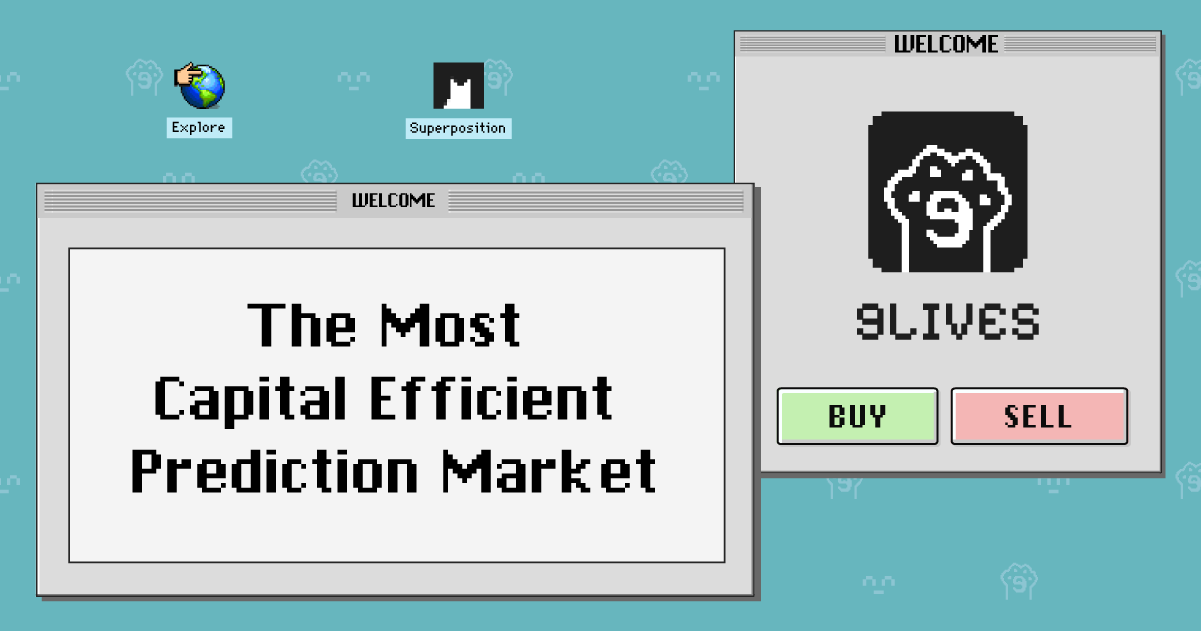
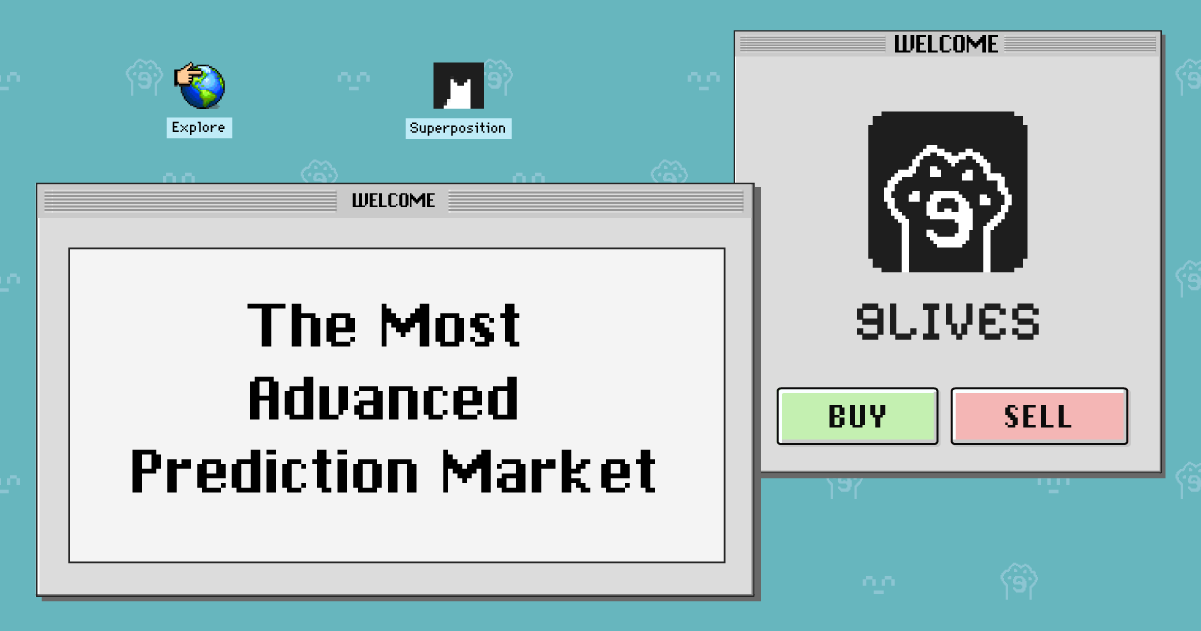
New messaging

Changed region(s): [[0.1232, 0.5721, 0.5237, 0.6926]]

diff --git a/web/src/config/app.ts b/web/src/config/app.ts
@@ -3,7 +3,7 @@ import z from "zod";
 
 const metadata = {
   title: "9Lives.so",
-  description: "The most capital efficient prediction market",
+  description: "The most advanced prediction market",
   metadataBase: new URL("https://9lives.so"),
   keywords: [
     "prediction market",
@@ -13,6 +13,8 @@ const metadata = {
     "onchain",
     "superposition",
     "blockchain",
+    "arbitrum",
+    "web3",
   ],
 };
 const infraMarketStateTitles: Record<InfraMarketState, string> = {
